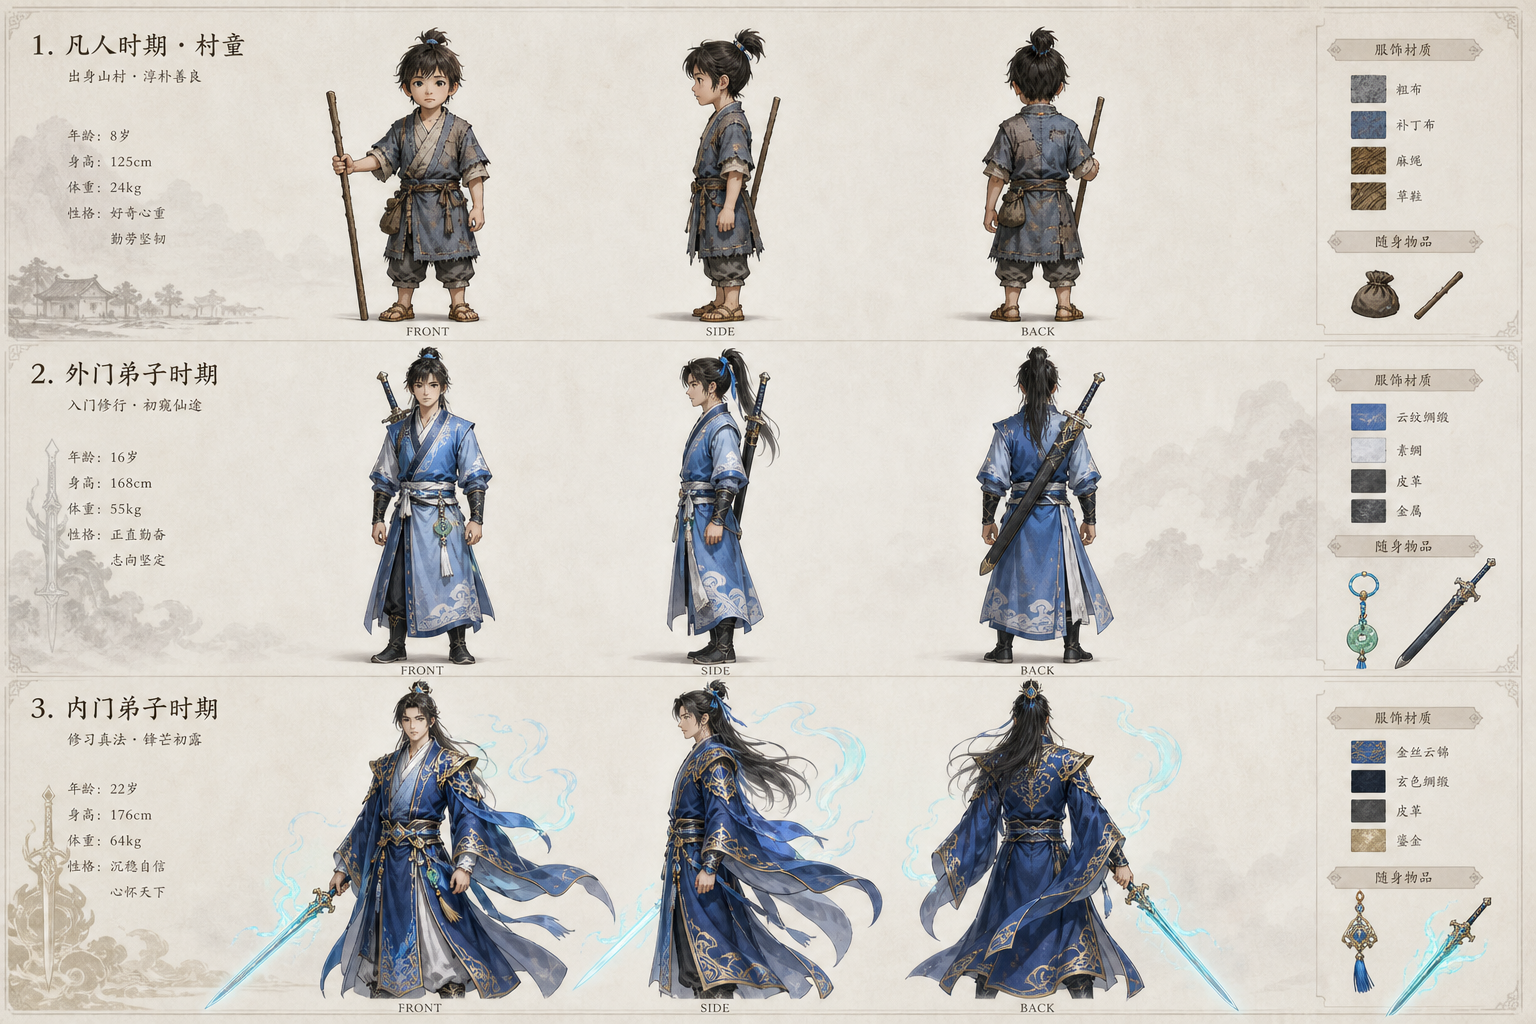
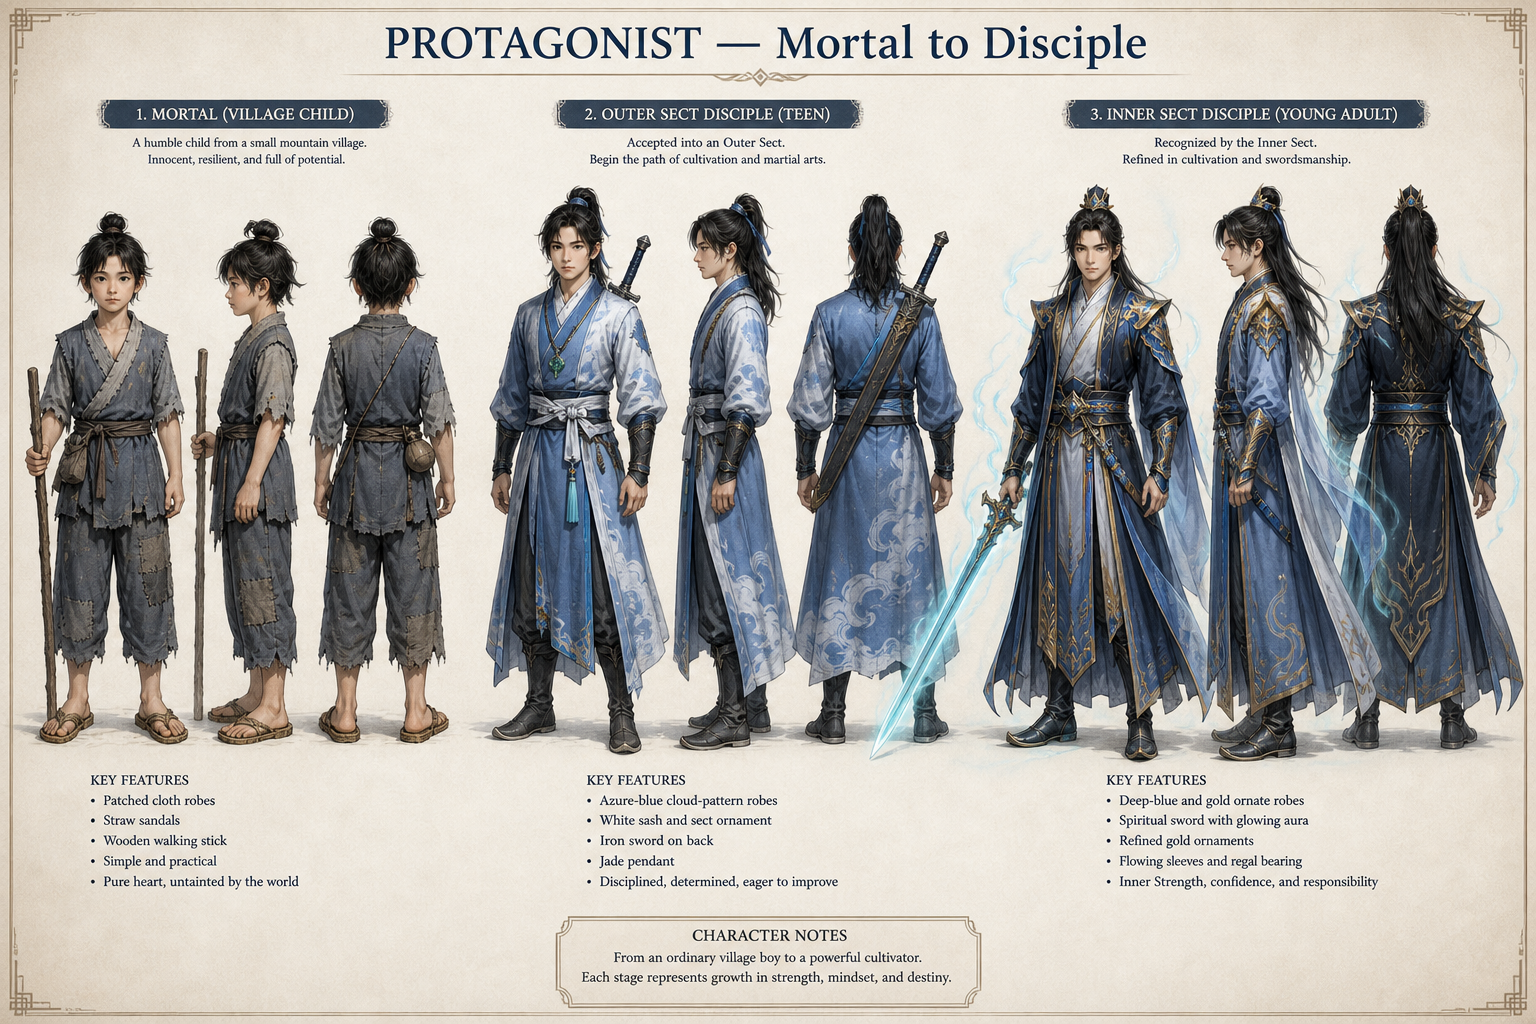
Concept expansion: interiors, panoramas, hero/enemy sheets II, sect hierarchy, realms VFX II
- 6 new English-only sheets (07-12), protagonist sheet re-issued in English
- Docs updated with asset map for Parts 2-4

diff --git a/docs/GAME_PLAN.md b/docs/GAME_PLAN.md
@@ -57,6 +57,14 @@
 | `04-sect-architecture-multiview.png` | Gate, pagoda, pavilions, arena, caves | Sect grounds modular building kit |
 | `05-cultivation-powers-fx.png` | Qi auras, sword qi, fireball evolution, tribulation | Particle/FX library (`effects.js`) |
 | `06-world-isometric-concept.png` | Sect valley panorama, ink-wash mood | Sky, fog, lighting, terrain art direction |
+| `07-sect-interiors.png` | Throne hall, library, alchemy chamber, cave, barracks | Interior maps (Parts 2–3: throne audiences, library study, pill refining) |
+| `08-world-panoramas.png` | Mortal capital, beast forest, demonic ruins, immortal palace | World zones: kingdoms → ruins → Immortal World (Parts 2–4) |
+| `09-protagonist-expansion.png` | Training, breakthrough, tribulation, elder robes, saber/spear variants | Outfit + weapon-variant rigs, breakthrough/tribulation cinematics |
+| `10-enemies-expansion.png` | Bandit chief, rogue cultivator, demon wolf, serpent, golem, skeleton general | Wilderness/dungeon enemy roster (Parts 2–3) |
+| `11-sect-hierarchy-npcs.png` | Sect Leader → Servant, 9-rank lineup | All sect NPC castes, tournaments, war councils (Parts 2–4) |
+| `12-realms-vfx-expansion.png` | Aura ladder, Dao manifestation, sword flight, soul avatar, tribulations, domain, bloodline | Realm-scaled FX + systems (Parts 2–4) |
+
+> Language lock: all concept sheets use **English-only labels** (re-issued 2026-09-18).
 
 ## 🗂 Repo Layout
 

diff --git a/README.md b/README.md
@@ -35,6 +35,14 @@ No build step. Any static server works. `game/` is also ready for **GitHub Pages
 | [Architecture](docs/concepts/04-sect-architecture-multiview.png) | Gate, pagoda, alchemy pavilion, arena, cave |
 | [Powers & FX](docs/concepts/05-cultivation-powers-fx.png) | Qi auras, sword qi, fireball evolution, tribulation |
 | [World](docs/concepts/06-world-isometric-concept.png) | Sect valley isometric panorama |
+| [Sect Interiors](docs/concepts/07-sect-interiors.png) | Throne hall, library, alchemy chamber, cave, barracks |
+| [World Panoramas](docs/concepts/08-world-panoramas.png) | Mortal capital, beast forest, demonic ruins, immortal palace |
+| [Protagonist II](docs/concepts/09-protagonist-expansion.png) | Training, breakthrough, tribulation, elder robes, weapon variants |
+| [Enemies II](docs/concepts/10-enemies-expansion.png) | Bandit chief, rogue, demon wolf, serpent, golem, skeleton general |
+| [Sect Hierarchy](docs/concepts/11-sect-hierarchy-npcs.png) | Sect Leader → Servant Disciple, full 9-rank lineup |
+| [Realms & VFX II](docs/concepts/12-realms-vfx-expansion.png) | Aura ladder, Dao manifestation, soul avatar, domains, bloodline |
+
+*All sheets use English-only labels.*
 
 ## 📐 Docs
 - `docs/DESIGN.md` — the complete 19-part design bible (condensed)
